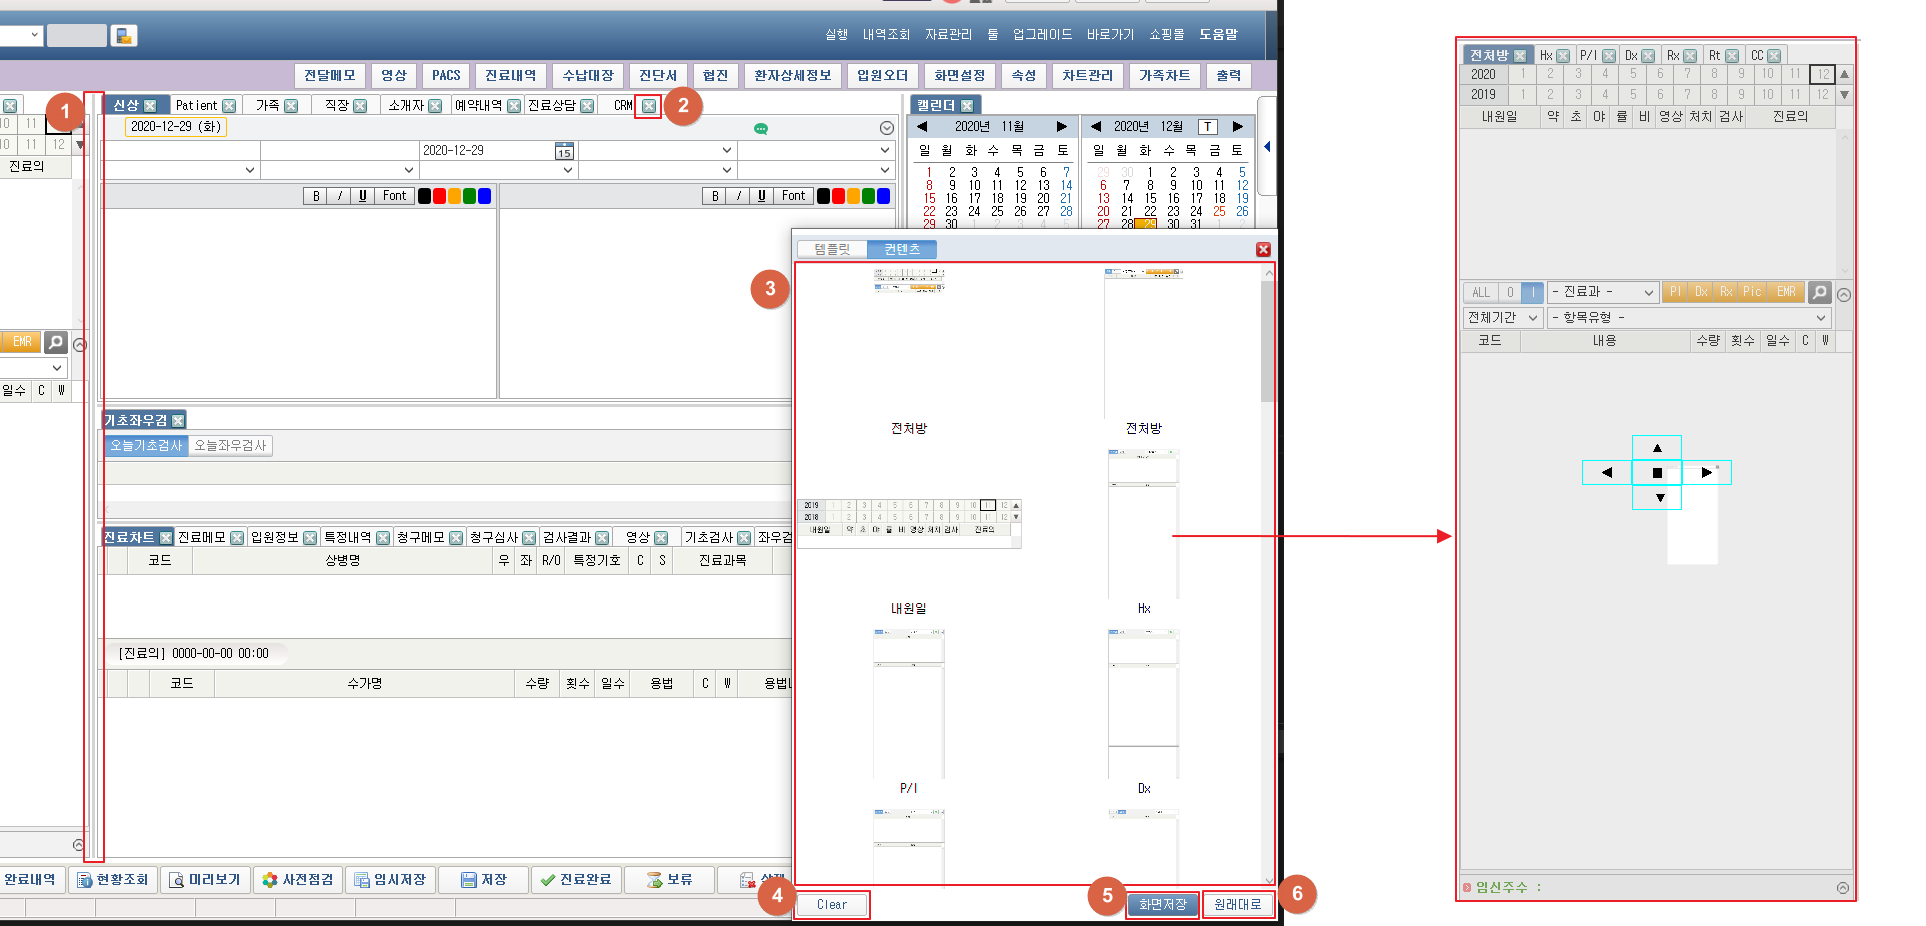
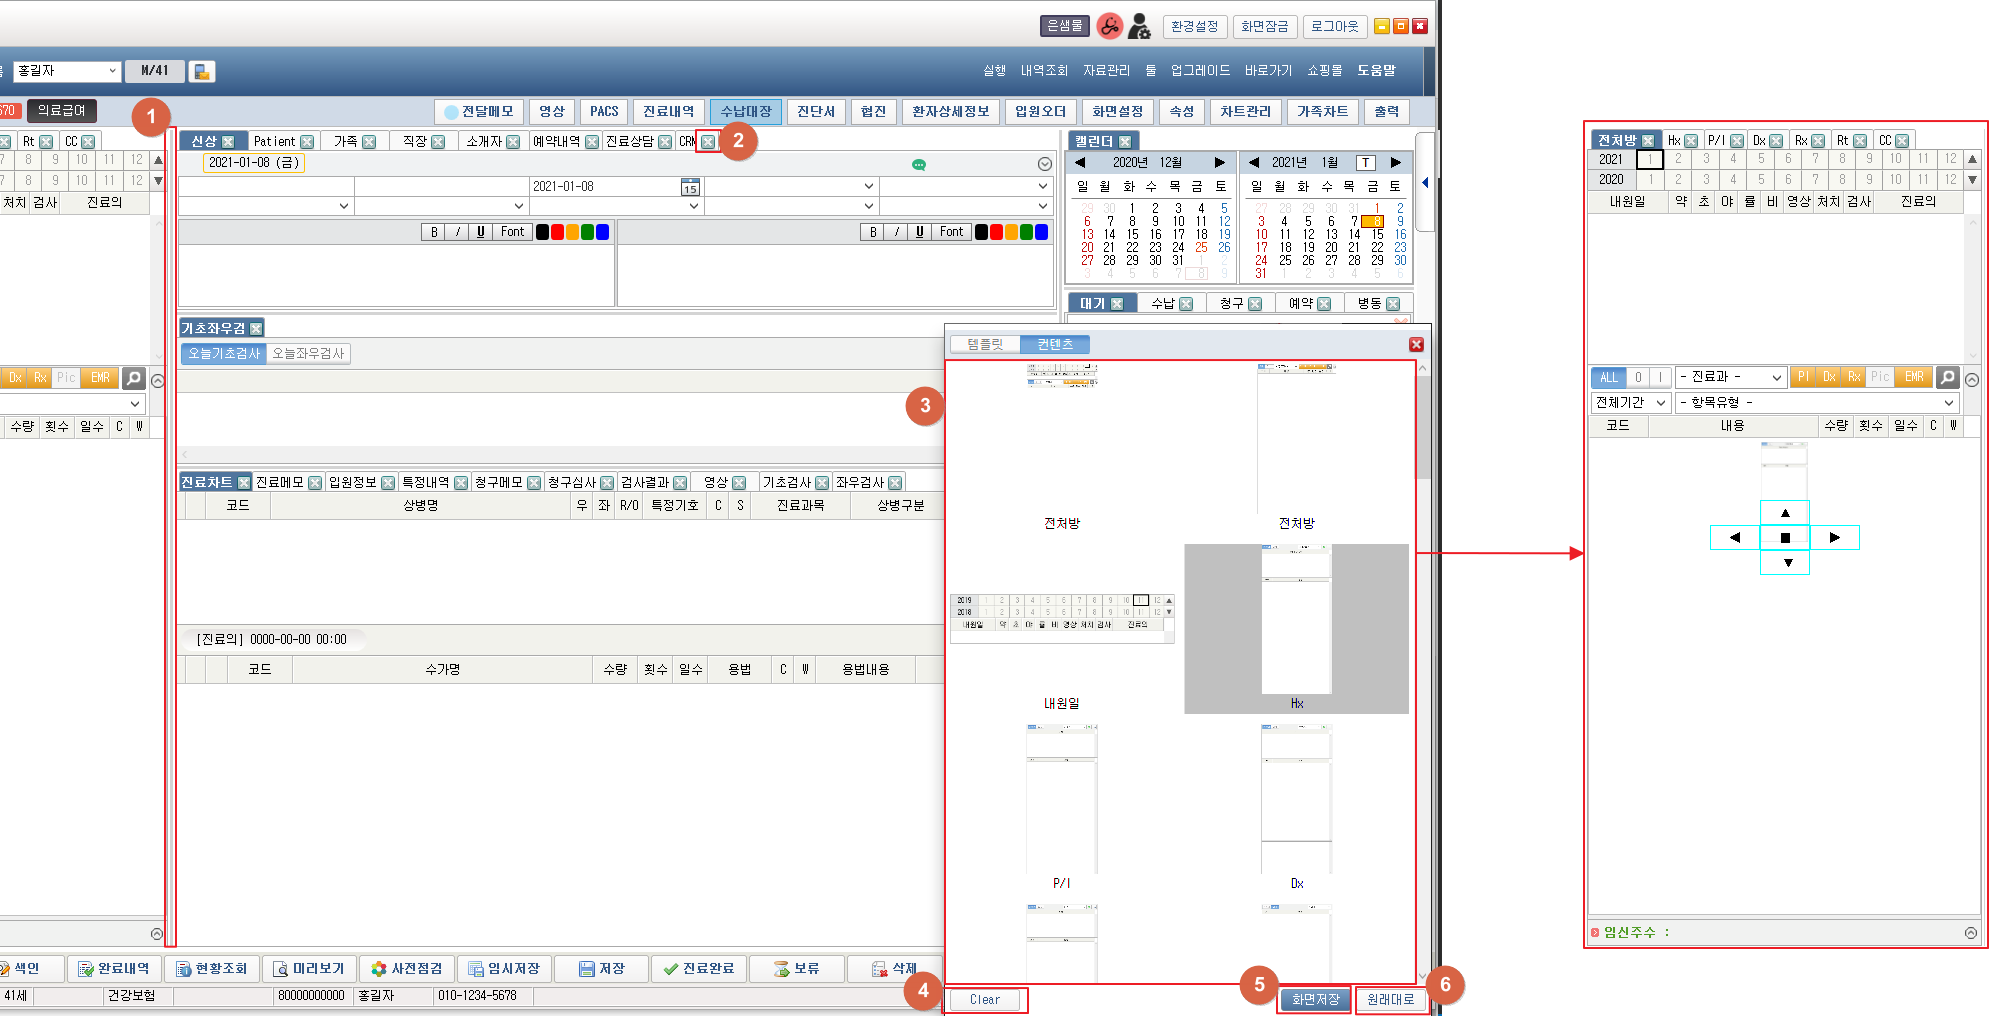
진료 매뉴얼 이미지 수정 / 새차트추가 매뉴얼 추가

Changed region(s): [[0.0, 0.0, 0.9969, 1.0], [0.8411, 0.4838, 0.9346, 0.5443], [0.2492, 0.3629, 0.2804, 0.3931]]

diff --git a/_docs/main6/sub1/page12.md b/_docs/main6/sub1/page12.md
@@ -2,9 +2,8 @@
 title: 기능버튼
 subCategory: 외래진료
 mainCategory: 프로그램 활용 - 진료
-pageOrder: 11
+pageOrder: 12
 ---
-
 <pre>
  <t2><bold>1. 툴 버튼 </bold></t2>
      ① [전달메모] 버튼 클릭 시 전달메모 창이 팝업됩니다.
@@ -24,9 +23,17 @@ pageOrder: 11
 
 <pre>
  <t2><bold>2. PACS</bold></t2>
-     ①  
+     ① 툴 버튼의 [PACS] 버튼 클릭 시 PACS Order List 창이 팝업됩니다. 
+     ② 검색조건을 입력 후 [조회] 버튼 클릭 시 오더 목록을 조회할 수 있습니다.
+     ③ 오더 목록을 표시합니다.
+     ④ 목록을 더블클릭하여 Pacs Viewer 창을 팝업할 수 있습니다.
+     ⑤ [오더취소] 버튼 클릭시 ③목록에서 체크한 항목을 오더취소할 수 있습니다.
 </pre>
-[![](/images/{{page.url}}_2.png)](/images/{{page.url}}_2.png){: target="_blank"}
+[![](/images/{{page.url}}_2_1.png)](/images/{{page.url}}_2_1.png){: target="_blank"}
+
+[![](/images/{{page.url}}_2_2.png)](/images/{{page.url}}_2_2.png){: target="_blank"}
+[PACS Viewer 경로 설정]
+
 
 <pre>
  <t2><bold>3. 협진 </bold></t2>
@@ -62,7 +69,7 @@ pageOrder: 11
 <pre>
  <t2><bold>5. 상담자료</bold></t2>
      ① [상담자료] 버튼 클릭 시 상담자료 창이 팝업됩니다.
-     ② 그룹을 선택합니다.ㄴ
+     ② 그룹을 선택합니다.
      ③ 상담자료가 표시됩니다.
           상담자료를 선택시 배경이 하늘색으로 변경됩니다.
           선택 후 우클릭 시 영상비교창이 나타납니다.
@@ -73,7 +80,7 @@ pageOrder: 11
 </pre>
 [![](/images/{{page.url}}_7.png)](/images/{{page.url}}_7.png){: target="_blank"}
 
-<pre>ㄴ
+<pre>
  <t2><bold>6. 백신</bold></t2>
      ① [백신] 버튼 클릭 시 백신 창이 팝업됩니다.
           환자정보를 확인할 수 있습니다.

diff --git a/_docs/main6/sub1/Page10.md b/_docs/main6/sub1/Page10.md
@@ -1,0 +1,14 @@
+---
+title: 새 차트 추가
+subCategory: 외래진료
+mainCategory: 프로그램 활용 - 진료
+pageOrder: 10
+---
+
+<pre>
+ <t2><bold>1. 새 차트 추가</bold></t2>
+     ① 전처방 탭에서 요약정보를 선택 후 우클릭 시 컨텍스트 메뉴가 열립니다.
+         [차트 추가] 메뉴 클릭 시 선택된 진료일자에 새 차트를 추가할 수 있습니다.
+</pre>
+
+[![](/images/{{page.url}}_1.png)](/images/{{page.url}}_1.png){: target="_blank"}
